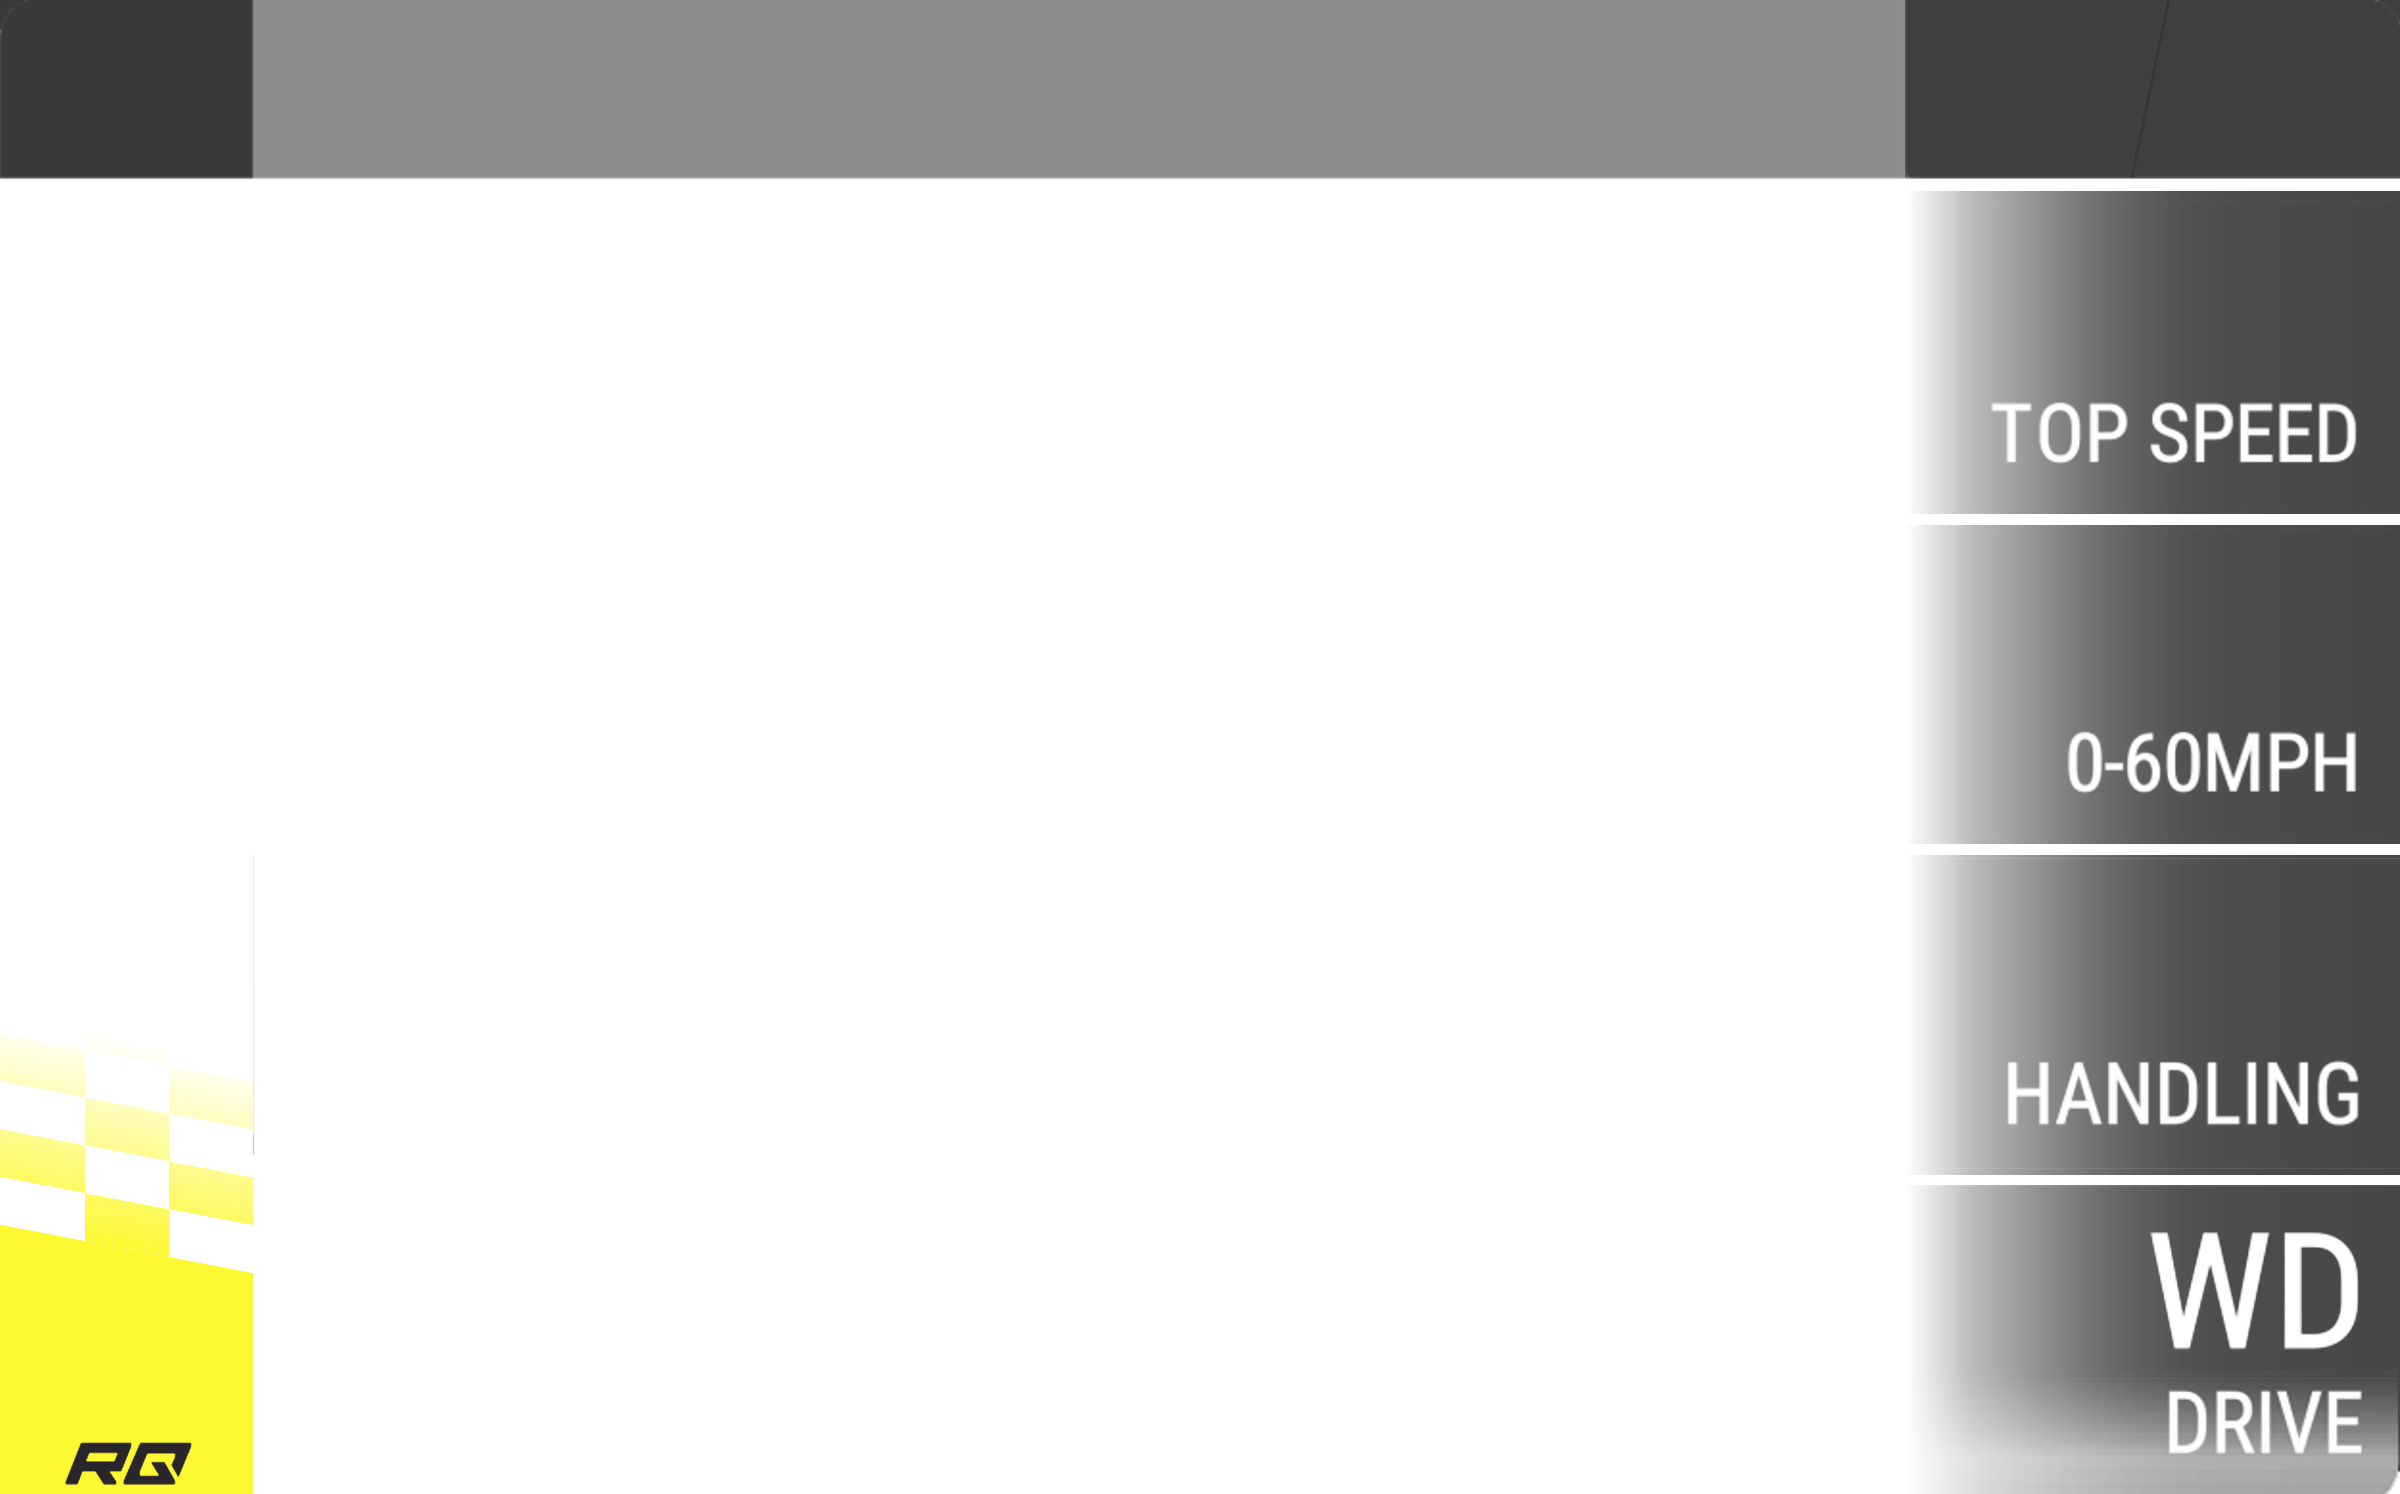
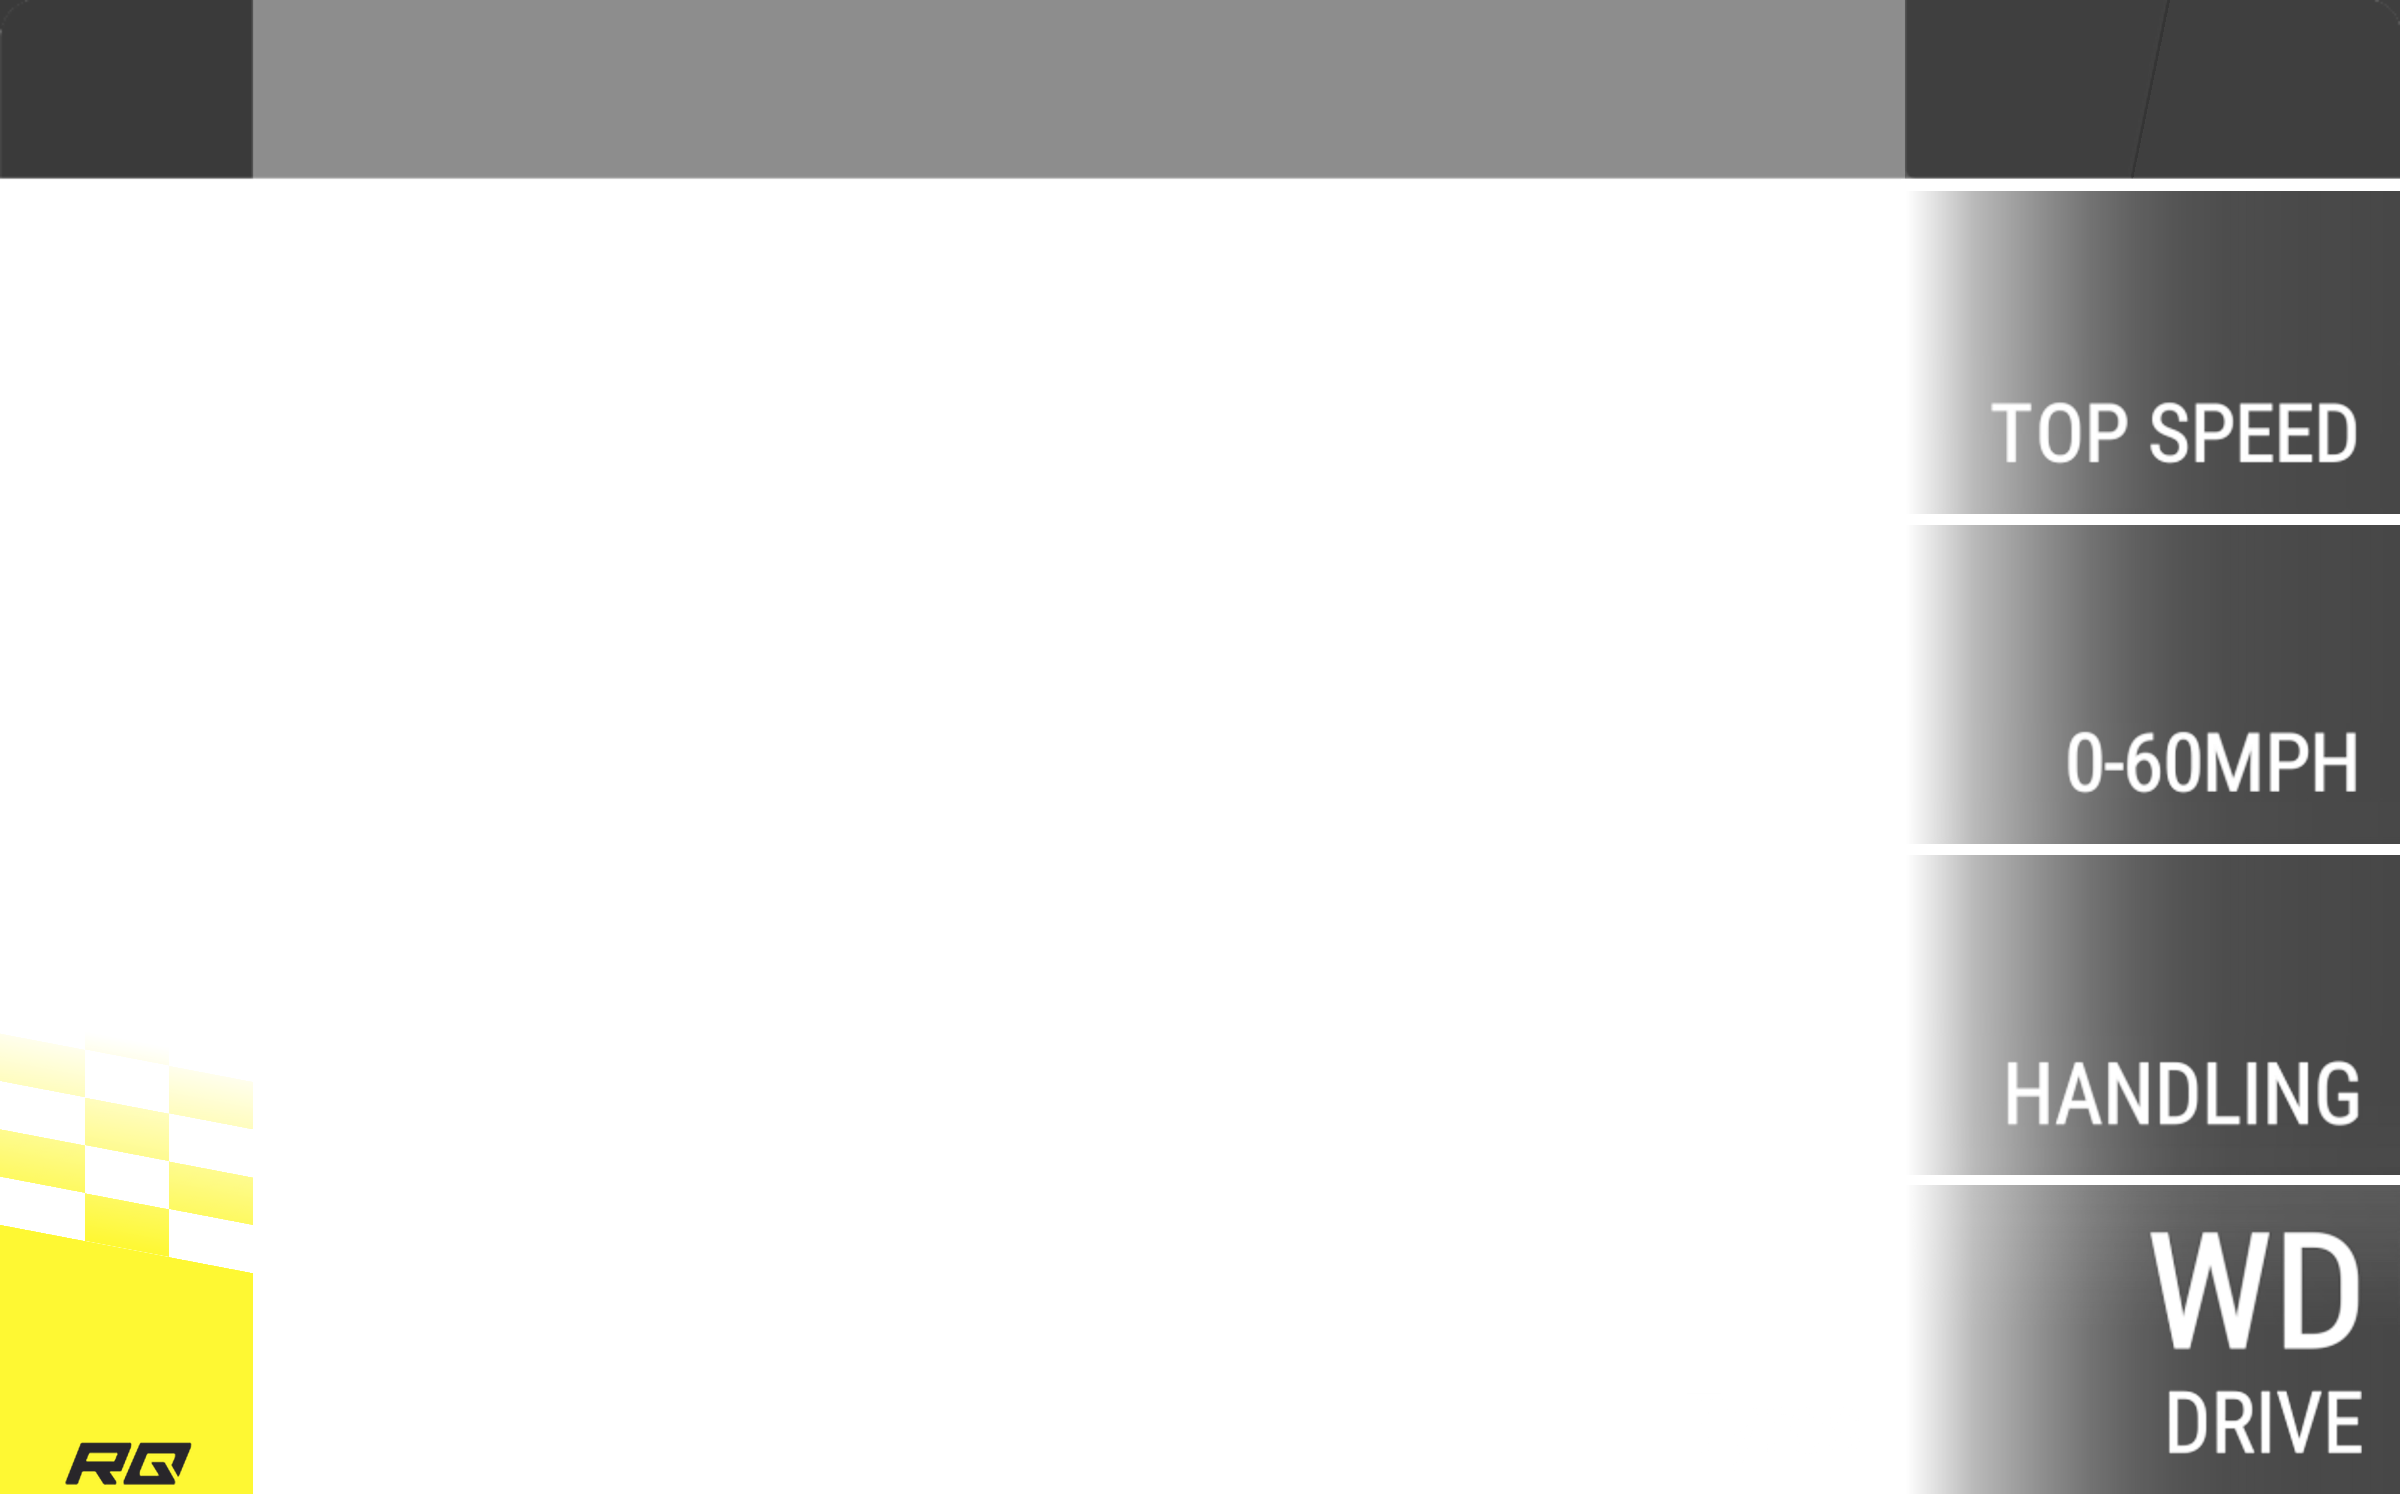
fix

Changed region(s): [[0.8125, 0.9237, 1.0, 1.0], [0.9062, 0.8313, 0.9375, 0.8621]]

diff --git a/tool/make_modern_frames.py b/tool/make_modern_frames.py
@@ -118,7 +118,7 @@ def build(letter, name):
     logo_cov_arr, logo_pos = sprite(a, (20, 762, 122, 812), logo_cov)
 
     # --- clear: class block + RQ panel, and the bottom strip with stars and wrench ---
-    out[region(0, 430, 141, 828)] = 0
+    out[region(0, 430, 150, 828)] = 0
     out[region(141, 640, 1066, 828)] = 0
 
     # --- stat panels: fade in from the left; panels and words sit where the new design has them ---
@@ -139,8 +139,9 @@ def build(letter, name):
     for ya, yb in spans:
         block = a[ya:yb, x0p:x1p]
         inside = block[..., 3] > 0
-        base = np.median(block[..., 3][inside])
-        word_old[ya:yb] = np.clip((block[..., 3] - base) / (255 - base), 0, 1) * inside
+        grey = block[..., :3].mean(axis=2)
+        base = np.median(grey[inside])                       # the panel's own brightness
+        word_old[ya:yb] = np.clip((grey - base) / (255 - base), 0, 1) * inside
     word = np.zeros_like(word_old)
     for y0u, y1u, dy in WORD_GROUPS:                    # move every group of words to its new place
         ya, yb = px(0, y0u)[1], px(0, y1u)[1]

diff --git a/claude/claude.md b/claude/claude.md
@@ -139,7 +139,8 @@ claude/claude.md                 this file
   Measured from a Porsche 911 GT2 card: no stars/bottom strip, wrench 1.5x at (185,750), stat panels fading in from fully clear
   (alpha 0 -> 0.72 over x 1066..1260; the template's blur fades over the same width via `blurRegions[].fadeLeft`),
   colour block topped by a see-through chequered flag (35-unit squares, 3 columns, alpha fading upwards; class colour),
-  dark RQ number (`fields.rq.color`, y 699). Everything measured ON the reference card, not by eye: stat panels = neutral grey 50 with measured alpha curve (0 at x=1062, .78 at 1191, .90 at the
+  dark RQ number (`fields.rq.color`, y 699). Pitfalls fixed in the generator: the standard class flag's edge reaches x~142 (clear x<150), and the standard bottom shading strip (alpha grows
+  downwards) must not count as a 'word' (words are found by BRIGHTNESS). Everything measured ON the reference card, not by eye: stat panels = neutral grey 50 with measured alpha curve (0 at x=1062, .78 at 1191, .90 at the
   right edge; fitted from the clear photo in the gaps between panels), blur fadeLeft 130; title row parts (logo 58 opaque, bar 47 a=.55, year/country 53
   a=.95); chequered flag = tilted by 0.19 (10.8 deg), squares 26.5 tall / 46.5 wide, alpha (u-562)/116, solid block from u=678.5; class A colour
   (147,80,255). Stat panels re-spaced to the reference (gaps centred at 288/471/654, `NEW_PANELS`), baked words moved down per group
